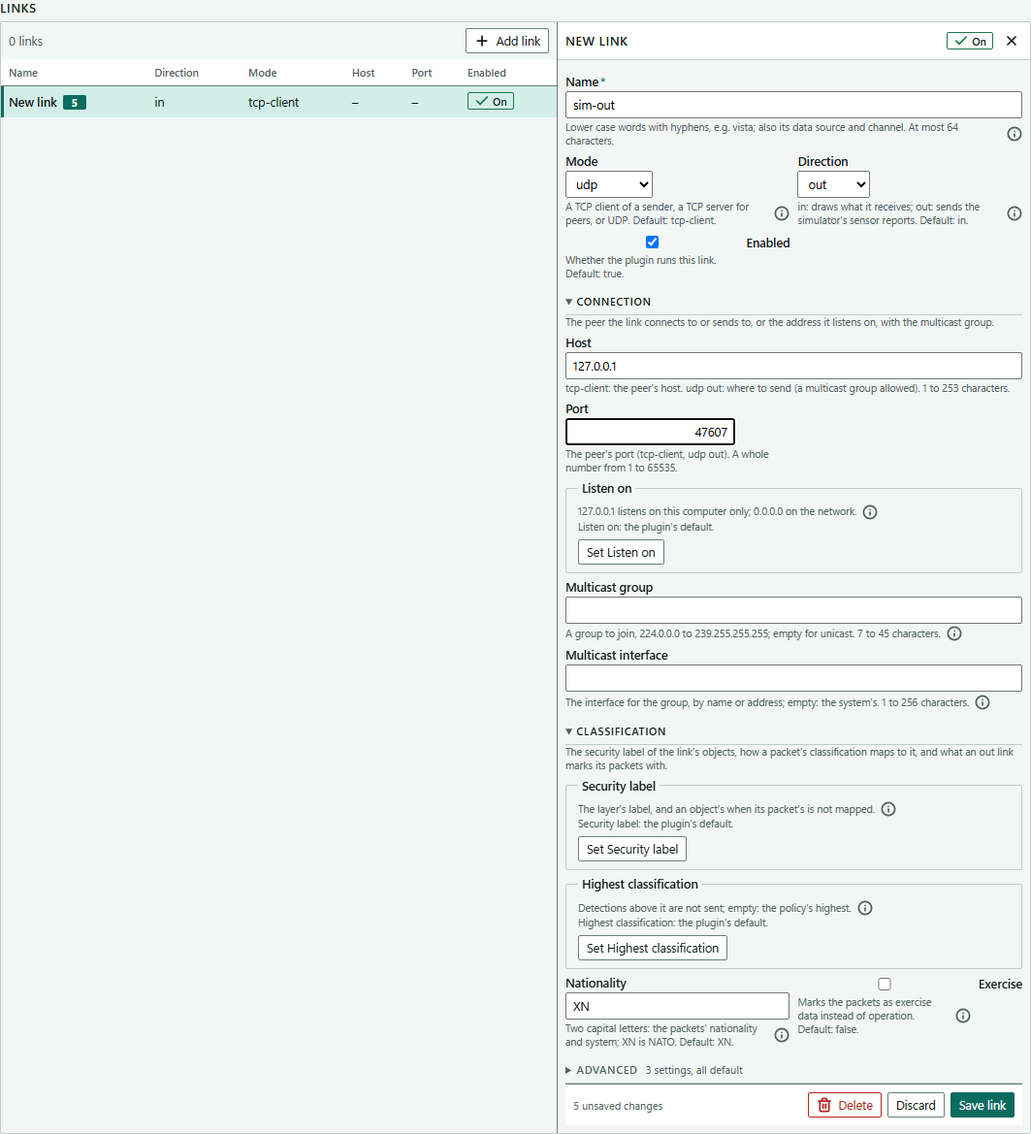
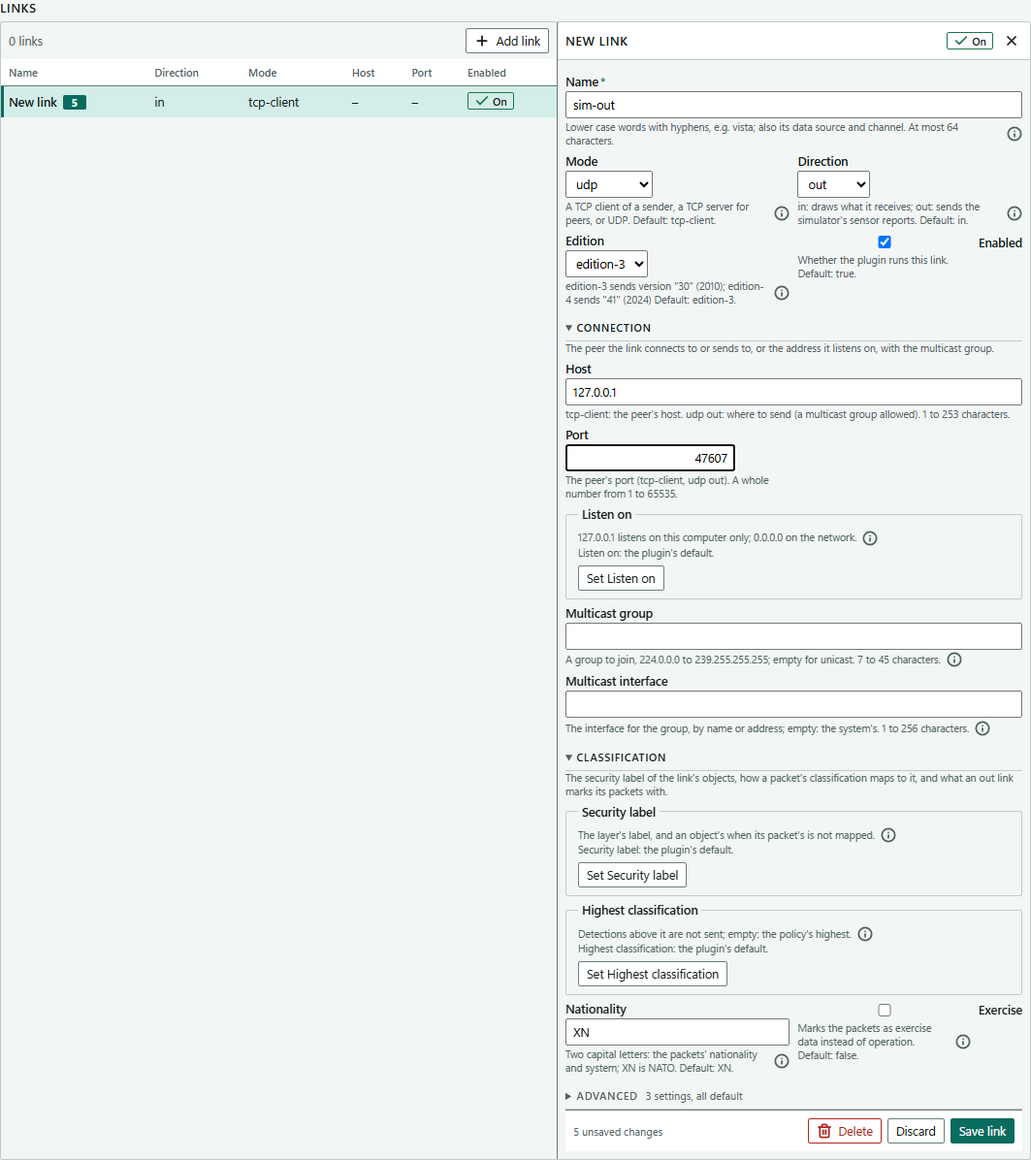
Documents: STANAG 4607 Edition 3 by default, after M9.1
The user manual, gmti's brief, the SDK's part D and the GMTI design
note describe M9.1: an out link's Edition setting (Edition 3 by
default, or Edition 4) and job definitions at least every 20 s.

diff --git a/docs/plugins/briefs/gmti.md b/docs/plugins/briefs/gmti.md
@@ -29,6 +29,7 @@
 - **Updated 2026-11-14 for M8 (owner, 2026-11-13, UV A): section 3's dwell area has no name; criterion 27 checks it.**
 - **Updated 2026-11-14 for M8 (T-195 changes; owner VD C: fewer dwell areas; the owner's answers of 2026-11-14 in the PDA's session: one area per revisit A, fading from its newest dwell A, created then updated A, a 10 s span A; PCA-gmti's point on VISTA's `D2`): section 3's dwell area, its key and its state, the per-platform row, the state and writes, the data type's expiry, criteria 27 and 39; simulator function 43's note.** A revisit's dwells share one area, the band that covers them, so a platform has about 25 times fewer areas at AFSERS's rate (the map view's cost is per vertex, 180 to 250 per area). Criteria 38, 40 and 41 do not change.
 - **Updated 2026-11-16 for M8 RC2 (the owner's answer YI A after M8 RC1: one dwell area per dwell again, in place of one per revisit, VD C; the dwell areas' fade full until 5 s and gone at 15 s): section 2's key, section 3's dwell area, its key and its state, the data type's expiry, the state and writes, section 5's `dwellAreaFade` default, criteria 27 and 39; the simulator brief's function 43 note.** One area per revisit made a Systematic pass's dwells one band that grew from where the pass began, so View drew rings and wide wedges that did not match Simulation's plan (the owner's M8 RC1 report). As built by PCA-gmti on `pca-gmti/m8-dwell-areas` `b470d7cc` (README, FORMAT-RULES G4, G7 and G12). At AFSERS's rate about 150 areas per platform at a time (1 000 at M8's first 100 s). The coverage, the detections and criteria 38, 40 and 41 do not change.
+- **Updated 2026-11-20 for M9.1 (owner, 2026-11-20, in PCA-gmti's session; board M9-R30): section 2's versions, section 3's "Out" (`P1`, `P10`, the job definition at least every 20 s), section 5's `edition`, criteria 22 and 42.** An out link writes the edition its new setting `edition` names: `edition-3` (`P1` "30", STANAG 4607 Edition 3) by default, also for links set up before M9.1, or `edition-4` (`P1` "41", AEDP-4607 Edition A Version 1), where the mission's and the job definition's own packets have `P10` 0. The job definition goes at least every 20 s, not 30 s, which receivers flagged. "In" reads every version as before and logs those other than "30" and "41". As built in M9.1 (`plugins/gmti/README.md`, `FORMAT-RULES.md` G13 and G18).
 
 ## 1. Purpose
 
@@ -42,7 +43,7 @@ Task T-141 builds it, by PCA-gmti.
 ## 2. Specification
 
 - **STANAG 4607 Edition 4:** AEDP-4607 Edition A, Version 1 (the format), with AEDP-4607.1 Edition A, Version 1 (the implementation guide), ADR-0048 point 1. Public NSDD documents in a local folder; read there, never copied. The reference's section 1 is the map.
-- **Versions** (`P1`): "41" is written; **every version is read by the existence mask alone** (reference 3.6, pitfalls 17 and 24): every recording the owner has says "21" or "30" (reference 5.3). Another version is logged once per link, not refused.
+- **Versions** (`P1`): **the edition by the out link's setting `edition`, Edition 3 ("30") by default** (M9.1; owner, 2026-11-20), or Edition 4 ("41"); **every version is read by the existence mask alone** (reference 3.6, pitfalls 17 and 24): every recording the owner has says "21" or "30" (reference 5.3). A version other than "30" and "41" is logged once per link, not refused.
 - **Segments read:** mission (1), dwell (2), job definition (5), platform location (13). **Skipped and counted by type:** every other type, HRR, free text, test and status, processing history, job request and acknowledge, 101, 102 and the extension types among them (reference 3.6, 4.1). A free text is logged at debug.
 - **Segments written:** packet header, mission, job definition and dwell (reference 4.3). No HRR, free text, status, history or platform location.
 
@@ -105,8 +106,8 @@ Task T-141 builds it, by PCA-gmti.
 
 **Out** (reference 4.3 gives every field; decided here):
 
-- Each `ChannelItem.SensorReport` becomes one packet: packet header (`P1` "41"; `P3` and `P5` the link's `nationality`, default `XN`; `P4` from the highest of the link's `label` and the item's detections' labels, mapped back to 1 to 5, so that **an empty dwell gets the link's label** (the ACA's R7); `P7` 1, or 129 when the link's `exercise` is on; `P8` from the sensor's name (below); `P9` from the sensor's mission (below); `P10` one job id per sensor, from 1), a mission segment, the job definition before the sensor's first dwell and at least every 30 s, and the dwell segment.
-- **One segment per packet** (T-159; owner, MV A, 2026-11-09): the link setting `oneSegmentPerPacket` (section 5), **on by default** (owner, MY, 2026-11-09). **On,** each segment of the packet above goes in a packet of its own, in the same order: the mission, the job definition when it is due, then each dwell segment (more than one when the reports are split, below). Each packet has its own packet header, with `P1` and `P3` to `P10` as the one packet's would be, and `P2` its own size. Why: the owner's dissector reads only a packet's first segment; the guide's minimum receiver needs no more than one segment per packet (reference 3.7, Guide G.7.3). Over UDP each packet is one datagram. "In" reads both forms the same (reference 3.7). **Off,** one packet per sensor report, as above. The setting takes effect from the next report, without a reconnect.
+- Each `ChannelItem.SensorReport` becomes one packet: packet header (`P1` by the link's `edition`: "30" for `edition-3`, the default, or "41" for `edition-4` (M9.1); `P3` and `P5` the link's `nationality`, default `XN`; `P4` from the highest of the link's `label` and the item's detections' labels, mapped back to 1 to 5, so that **an empty dwell gets the link's label** (the ACA's R7); `P7` 1, or 129 when the link's `exercise` is on; `P8` from the sensor's name (below); `P9` from the sensor's mission (below); `P10` one job id per sensor, from 1, and in Edition 4 0 in a packet without a dwell), a mission segment, the job definition before the sensor's first dwell and at least every 20 s (M9.1; it was 30 s, the limit 4607 receivers allow, and receivers flagged it), and the dwell segment.
+- **One segment per packet** (T-159; owner, MV A, 2026-11-09): the link setting `oneSegmentPerPacket` (section 5), **on by default** (owner, MY, 2026-11-09). **On,** each segment of the packet above goes in a packet of its own, in the same order: the mission, the job definition when it is due, then each dwell segment (more than one when the reports are split, below). Each packet has its own packet header, with `P1` and `P3` to `P10` as the one packet's would be, and `P2` its own size; in Edition 4 the mission's and the job definition's own packets have `P10` 0, as Edition 4 asks of a packet without a dwell (Edition 3 keeps the job id in every packet; M9.1). Why: the owner's dissector reads only a packet's first segment; the guide's minimum receiver needs no more than one segment per packet (reference 3.7, Guide G.7.3). Over UDP each packet is one datagram. "In" reads both forms the same (reference 3.7). **Off,** one packet per sensor report, as above. The setting takes effect from the next report, without a reconnect.
 - **The area** (reference 4.2): **an `ArcBand` by its own shape, wherever its centre lies** (T-193, owner TB A; PCA-gmti `120c06f6`): `D24`/`D25` its middle, `D26` half its depth, `D27` half its angle (AEDP 3.4.27), while `D7`/`D8` stay the report's platform at the report's time (AEDP 3.4.7). Before T-193 only a band centred within 1 m of the platform went so, and the simulator centred a revisit's bands where the platform was when the revisit began, so a moving sensor's band went as an "other shape" and came back as a wide sector or a near-full ring. **Since T-193 the simulator centres each dwell on the platform where its report puts it** (PCA-simulator `0b91a88d`; the UDA's M8 note); `gmti` still sends a band centred elsewhere by its own shape, as any sender may. "In" draws a band from `D7`/`D8` (reference 4.1), so its middle, far edge and width stay and its point moves to the platform; **a `Circle` centred on the sensor as 4607 allows** (Annex C-1.12; CR-0035, owner, KM, 2026-11-07): `D24`/`D25` the point halfway out at bearing 0° from the sensor, `D26` half the radius in km, `D27` 180°. That is the whole disc, which "In" (above; reference 4.1) reads back as the same circle round the sensor: inner 0, outer the radius. Other shapes are sent as the reference approximates them, and cut the same way from their near edge.
   - **The area's depth** (owner, JS and KA, 2026-11-07, with CR-0035's KM; G12): `D26` holds at most 255.99 km, so a dwell area reaches at most **511.98 km beyond its near edge**. **The out channels declare it: `maxAreaDepth(511_980)`** (CR-0035), which the simulator compares with to warn (its function 30). The near edge is the area's distance from the sensor at its nearest point: an `ArcBand`'s inner radius, and 0 for a `Circle` round the sensor.
   - **A deeper area is cut** (JS): the simulator's reach is generic and not cut (its function 28), so `gmti` cuts. Only the range is cut, the near edge stays (owner, KA, 2026-11-07, confirming PCA-gmti's Q5), and the bearings stay:
@@ -130,7 +131,7 @@ Task T-141 builds it, by PCA-gmti.
 - **Ground truth** is not taken: the channel's kinds are `SENSOR_REPORTS` only. **Relations are not sent** (ADR-0051 point 8).
 - **The job area, the sensor type and a revisit's dwells** (M6, T-168 and T-169; CR-0039 point 7, CR-0040; the simulator's functions 36 to 39):
   - **Ground radars only:** the out channels declare `sensorTypes` `[GROUND_RADAR]`, so the simulator offers them no generic sensor. A report whose `Sensor.type` is another type is not sent, counted `not a ground radar`. A report without a type, from a sender built before 1.5.0 or without a `Sensor`, is sent as in M5.
-  - **The job's bounding area** (`J6`–`J13`): from `Sensor.jobArea` when the report has one, its four corners **clockwise** as A to D (owner, PK A, 2026-11-10; AEDP-4607 3.7.6): A is the ring's first corner, and a counter-clockwise ring is reversed after A (the simulator's job area has exactly four, its function 39). **A job area that is not a convex area of four corners** (more or fewer corners, or a concave or crossed ring) is sent as the box round it, counted `not held: J6` once per sensor (owner, PK A); latitude first in the bytes, as the reference gives. Without one, the box round the dwell area, as in M5 (`plugins/gmti/README.md`, "Out"). The job definition goes before the sensor's first dwell, **again with the next dwell when the job area changes** (AEDP-4607 3.7: the actual area whenever it differs), and at least every 30 s, as before.
+  - **The job's bounding area** (`J6`–`J13`): from `Sensor.jobArea` when the report has one, its four corners **clockwise** as A to D (owner, PK A, 2026-11-10; AEDP-4607 3.7.6): A is the ring's first corner, and a counter-clockwise ring is reversed after A (the simulator's job area has exactly four, its function 39). **A job area that is not a convex area of four corners** (more or fewer corners, or a concave or crossed ring) is sent as the box round it, counted `not held: J6` once per sensor (owner, PK A); latitude first in the bytes, as the reference gives. Without one, the box round the dwell area, as in M5 (`plugins/gmti/README.md`, "Out"). The job definition goes before the sensor's first dwell, **again with the next dwell when the job area changes** (AEDP-4607 3.7: the actual area whenever it differs), and at least every 20 s (M9.1; was 30 s).
   - **A revisit's dwells** (CR-0040): with `SensorReport.Sequence`, `D2` is the revisit number modulo 65 536, `D3` the dwell number and `D4` its `lastOfRevisit`. Without one, as in M5: the link's own revisit count, `D3` 0 and `D4` set. The channel's inbox keeps the latest report per sensor and dwell number, so a revisit's dwells do not replace each other; `dwells dropped` still counts what a slow link loses.
 
 ## 4. Transport
@@ -162,6 +163,7 @@ The `links` setting, from `Link`'s schema in the template:
 | `links[].nationality` | `XN` | `out`: `P3` and `P5` |
 | `links[].exercise` | off | `out`: `P7` 129 instead of 1 |
 | `links[].maxReportsPerSegment` | 120 | `out`: 1 to 65 535 (A5) |
+| `links[].edition` | `edition-3` | `out`: the STANAG 4607 edition (M9.1; owner, 2026-11-20): `edition-3` writes `P1` "30" (Edition 3), also for links set up before M9.1; `edition-4` writes "41" (AEDP-4607 Edition A Version 1), with `P10` 0 in a packet without a dwell. A free field, beside `direction` |
 | `links[].oneSegmentPerPacket` | on | `out`: "One segment per packet": each segment in its own packet with its own header; off, one packet per sensor report (section 3, "Out"; T-159, owner MV A; on by default, MY) |
 
 **From M7, the plugin's own colours** (T-181, T-185; owner, QM A, QR A, 2026-11-11), top-level settings beside `links`, set by an admin and the same for every user and link:
@@ -188,7 +190,7 @@ The `links` setting, from `Link`'s schema in the template:
 
 - **The fields by mode and direction** (M6, T-160; SDK 1.5.0 part 4, CR-0039 point 8; the owner's Q45 A, 2026-11-10). The form shows only what a link of that mode and direction uses, so an admin cannot miss the listen port (the owner's RC1 setup: an `in` link without one received nothing):
   - **By mode** (`"x-emc2": { "visibleWhen": { "property": "mode", "in": [...] } }`): `host` and `port`, the peer, for `tcp-client` and `udp`; `listen` for `tcp-server` and `udp`; `multicastGroup` and `multicastInterface` for `udp`. A `udp` link shows both the peer and `listen`, since `visibleWhen` names one field (Q45 A).
-  - **By direction:** each field the table marks `in` or `out` is shown for that direction only (`visibleWhen` on `direction`, instead of M5's greyed `enabledWhen`): `targetLayer`, `platformSymbol`, `platformIdentity`, `maxReportsPerDwell`, `time`, `classification`, `classificationNames` and `coverage` for `in`; `highestClassification`, `nationality`, `exercise`, `maxReportsPerSegment` and `oneSegmentPerPacket` for `out`. `label` and `name`, `mode`, `direction`, `idleSeconds` and `enabled` show for both.
+  - **By direction:** each field the table marks `in` or `out` is shown for that direction only (`visibleWhen` on `direction`, instead of M5's greyed `enabledWhen`): `targetLayer`, `platformSymbol`, `platformIdentity`, `maxReportsPerDwell`, `time`, `classification`, `classificationNames` and `coverage` for `in`; `highestClassification`, `nationality`, `exercise`, `maxReportsPerSegment`, `oneSegmentPerPacket` and `edition` (M9.1) for `out`. `label` and `name`, `mode`, `direction`, `idleSeconds` and `enabled` show for both.
   - **Required where used**, by the schema's own `if`/`then` in the item (standard JSON Schema; the model's example `manifest-settings-visible-when.json`): `listen` for `tcp-server` and for a `udp` `in` link; `host` and `port` for `tcp-client` (also when `mode` is absent, its default) and for a `udp` `out` link. ECore refuses such a link when saved, and the form shows the error at the field (the CDA's part 4 line). The Java `Link` keeps its own checks.
   - **A hidden field keeps its value** and is still validated: switching a link from `tcp-client` to `tcp-server` and back keeps its `host`. The plugin ignores the fields its mode and direction do not use, as before.
 - **The manifest:** `connections` with the kinds `tcp-client`, `tcp-server`, `udp` and `multicast`, `direction` `both`, `"settings": "/links"`, and the reason; `internet` with `hosts: []`, since an admin may point a link at a sensor on another network; the data types, the field set and the relation kind of section 3.
@@ -246,7 +248,7 @@ The reference's test checklist (6.2) is part of these criteria: each line there 
 19. **Out, the area's depth** (JS, KA; CR-0035, KM): the out channels list `maxAreaDepth` 511 980 m. A sensor report with a `Circle` of 400 km round the sensor (latitude ≠ longitude) and detections at 100 km and 300 km sends `D24`/`D25` 200 km north of the sensor, `D26` 200 km and `D27` 180°, which "In" reads back as a `Circle` of 400 km round the sensor; it sends both detections and counts nothing. A `Circle` of 600 km sends `D26` 255.99 km with its centre 255.99 km north, the detection at 500 km and not the one at 550 km, counting `not held: D26` and one `beyond reach`. An `ArcBand` from 20 to 400 km (half extent 190 km) is sent whole, with every detection; an `ArcBand` from 20 to 1 000 km is sent from 20 to 531.98 km (its centre 275.99 km from the sensor, its bearings unchanged), and a detection at 600 km is left out and counted (KA).
 20. **Out, the mission** (CR-0034): a sensor with the mission "ATO-2611-BRAVO" sends `M1` "ATO-2611-BRA" and `P9` 1044403554 (0x3E405562, the CRC-32 of its UTF-8 bytes; "123456789" gives the check value 0xCBF43926), counting one `mission cut`; "ATO-2611-BRAVE" gives the same `M1` and `P9` 3734355068; "Övning Norr" sends "?vning Norr " and no `mission cut`; the same mission after a restart of the link keeps its `P9`; no mission sends spaces and the second of the link's start day.
 21. **In, the coverage** (T-158): a job definition with the corners A [15.10, 58.30], B [15.50, 58.30], C [15.50, 58.10] and D [15.10, 58.10] (longitude, latitude; clockwise) gives one `core.shape` `{gmti, <link>/<P8>/coverage}`, data type `gmti.platform`, a `Polygon` of those corners, longitude first. The same corners again within 30 s write nothing; after 30 s with a dwell, only its time changes; new corners replace it; four equal corners delete it, as `J5` 255 does; with `coverage` off none is written and a drawn one is deleted. A browser check: a simulated sensor through `gmti` out and back shows its sector inside the dashed box.
-22. **Out, one segment per packet** (T-159): a sensor's first report with 130 detections and `maxReportsPerSegment` 120. **By default** (`oneSegmentPerPacket` on, MY): four packets, the mission, the job definition and two dwell segments (120 and 10 reports), each with one segment and `P2` its own size, and `P1` and `P3` to `P10` equal to what the one packet's would be; over UDP four datagrams; a later report without a job definition due gives three packets, the mission and two dwells. With it off: one packet holding the mission, the job definition and the two dwell segments, `P2` its whole size. Read back by "In", both forms give the same platform, area, coverage and detections. Switching the setting takes effect from the next report, without a reconnect.
+22. **Out, one segment per packet** (T-159): a sensor's first report with 130 detections and `maxReportsPerSegment` 120. **By default** (`oneSegmentPerPacket` on, MY): four packets, the mission, the job definition and two dwell segments (120 and 10 reports), each with one segment and `P2` its own size, and `P1` and `P3` to `P10` equal to what the one packet's would be (in Edition 4 the mission's and the job definition's packets have `P10` 0, criterion 42); over UDP four datagrams; a later report without a job definition due gives three packets, the mission and two dwells. With it off: one packet holding the mission, the job definition and the two dwell segments, `P2` its whole size. Read back by "In", both forms give the same platform, area, coverage and detections. Switching the setting takes effect from the next report, without a reconnect.
 
 23. **The data types** (M6, T-165): the manifest's `gmti.detection` names `report` and both types have `manual` `false`, valid against the 1.5.0 schema; the test kit's context built from it lists `gmti.detection` with `fieldSets` `['gmti.report']` and both with `manual` false; a detection written through the fake store carries `gmti.report` once, and a platform none.
 24. **Out, the job area** (M6, T-168): a sensor report whose `Sensor.jobArea` has the corners [15.10, 58.30], [15.50, 58.30], [15.50, 58.10], [15.10, 58.10] (latitude ≠ longitude) sends them as `J6`–`J13`, A to D in that order, in the job definition before the first dwell; an `in` link draws that coverage. A changed job area sends a job definition with the next dwell; without one, the box round the dwell area as in M5.
@@ -268,6 +270,7 @@ The reference's test checklist (6.2) is part of these criteria: each line there 
 39. **The areas' steps** (T-192, T-195; from M8 RC2, owner YI A): with the test kit's context and the defaults, `gmti.dwell-area`'s `fade` is `{ fromSeconds: 5, stepPercent: 5, invisibleAtSeconds: 15 }` and its expiry 15 s, not faded, removed at once; in the browser a dwell area is drawn fully until 5 s after its dwell, at 95 % from 5.5 s, at 50 % from 10 s, and gone from 15 s, while later dwells each draw their own new area fully; the platform and the coverage keep `gmti.platform`'s expiry fade.
 40. **A changed fade** (T-192): with `detectionFade` set to `{ on: true, fromSeconds: 0, stepPercent: 50, invisibleAtSeconds: 20 }`, detections already on the map follow within 1 s without a reload (50 % from 10 s, gone from 20 s); with `on: false` they are drawn fully, with the data type's expiry fade.
 41. **The default colours** (M8, T-189): with no setting changed, a dwell area's `strokeColor` is `#7EF26A` and a coverage's `#BDCF3D`; the settings form shows both as `fixed`, and `identity` can still be chosen.
+42. **Out, the edition and the job's repeat** (M9.1; owner, 2026-11-20): a link without `edition` (as one set up before M9.1) and one with `edition-3` write `P1` "30", the job id in every packet; `edition-4` writes "41", and with one segment per packet the mission's and the job definition's packets have `P10` 0 and the dwells' the job id (with it off, every packet holds a dwell and keeps the job id). Read back by "In", both editions give the same platform, coverage and detections; "In" logs a version "21" once per link and nothing for "30" or "41". A sensor reporting for 60 s gets job definitions at most 20 s apart.
 
 
 ## 9. Out of scope

diff --git a/docs/architecture/gmti-4607.md b/docs/architecture/gmti-4607.md
@@ -44,7 +44,7 @@ Longitude in this format is **0 to 360° east**. For emc2's −180..180 (ADR-000
 
 | Id | M/C/O | Field | Type | Bytes | Meaning |
 |---|---|---|---|---|---|
-| P1 | M | Version id | A | 2 | "mn": edition as a number and version. **"41" is Edition A Version 1**; "30" was STANAG 4607 Edition 3, "20" Edition 2 (AEDP 3.1.1; Guide F, question 16) |
+| P1 | M | Version id | A | 2 | "mn": edition as a number and version. **"41" is Edition A Version 1**; "30" was STANAG 4607 Edition 3, "20" Edition 2 (AEDP 3.1.1; Guide F, question 16). emcc writes "30" by default, or "41", as each out link sets it (section 4.3) |
 | P2 | M | Packet size | I32 | 4 | bytes in the whole packet, this header included; at least 32 |
 | P3 | M | Nationality | A | 2 | digraph of the platform's nation; **"XN" for NATO** (AEDP 3.1.3) |
 | P4 | M | Security classification | E8 | 1 | 1 top secret … 5 unclassified (Table 3-2; section 2.1 below). There is no "none" value |
@@ -390,7 +390,7 @@ Three layers, from coarse to fine: the job definition's **nominal** values (`J16
 - **Unknown enumeration value:** keep the number, show "unknown (n)". Enumerations grow between editions.
 - **Set mask bits for reserved fields** (bytes 1 and 0 of `D1`): no bytes follow for them; ignore the bits.
 - **A malformed packet** (sizes that do not add up, a segment past the packet's end, a mask that cannot be true): drop the whole packet, count it, keep the link up (Guide G.9.18). On a TCP stream, resynchronising after a bad size is guesswork; the practical rule is to close and reopen the connection, which the connection task's retry does (ADR-0036).
-- **Older version ids** ("20", "21", "30"): the headers and the defined segments kept their layout; the differences are added enumeration values and `D32.18`. Parse them as Edition A; log the version. The owner's recordings are all "21" or "30" (section 5.3).
+- **Older version ids** ("20", "21", "30"): the headers and the defined segments kept their layout; the differences are added enumeration values and `D32.18`. Parse them as Edition A; log a version other than "30" and "41" (section 4.1). The owner's recordings are all "21" or "30" (section 5.3).
 - **Conditional rules not honoured.** Real senders set report error fields (`D32.12`–`D32.15`) without the dwell's `D12`–`D14`, or a velocity error without the velocity (section 5.3). The mask is the truth: read what it says is there, and treat the standard's conditions as advice for sending, not as checks when receiving.
 
 ### 3.7 What is mandatory for a minimal sender and receiver
@@ -409,7 +409,7 @@ An in link (TCP client, TCP server or UDP; ADR-0048 point 2, ADR-0036) parses pa
 
 **Per packet**
 
-- `P1`: log; accept "41", "30", "20".
+- `P1`: every version is read by the existence mask (section 3.6); a version other than "30" and "41" is logged once per link. The name of class `D32.10` 143 follows the packet's edition: the tagging device in Edition 3 and older, reserved in Edition A (M9.1).
 - `P4`, `P5`, `P6`: the packet's label (ADR-0020). `P4` 1–5 becomes the label's classification in the link's policy (the admin maps the five values to the policy's names; the default policy is NATO's and `P5` "XN" matches it); the link's default label applies when the packet's classification cannot be mapped. `P6` is kept as a number in the extension; mapping code words to label categories is after M5. The brief says how a packet whose classification is above the link's layer is handled, as the output rule in ADR-0037 point 8 does for sending.
 - `P7`: the APP-6 context of the objects the packet produces: 0 → reality, 1 and 2 → simulation, 128–130 → exercise.
 - `P8`, `P9`, `P10`: the **platform key** is `P8` (per link); the **job key** is `(P8, P10)`. The dwell area shape is **one per platform**, as ADR-0048 says, with the job id as a field on it: one recording (section 5.3) starts a new job id with nearly every dwell, so a shape per job would churn, and the AFSERS streams run one job per platform anyway. Interleaved jobs on one platform then share the shape, which flickers between two areas; a per-job option is for later if a real stream needs it.
@@ -447,9 +447,9 @@ An in link (TCP client, TCP server or UDP; ADR-0048 point 2, ADR-0036) parses pa
 
 Per **sensor report** the link sends one packet:
 
-- **Packet header:** `P1` "41"; `P3` the link's nationality setting (default "XN"); `P4` from the highest label among the item's detections and the sensor, mapped back to 1–5 (ADR-0037 point 8 for the limit); `P5` the link's scheme (default "XN"); `P6` 0; `P7` 1 (operation, simulated) or 129 when the sensor's scenario is an exercise, a link setting; `P8` the sensor's name, 10 BCS characters, padded, unique per sensor on the link; `P9` a number derived from the sensor's mission text when it has one (CR-0034: the same mission keeps its id across restarts and links; the `gmti` brief names the function), else a number fixed when the link starts; `P10` the job id, one per sensor (a counter from 1).
+- **Packet header:** `P1` by the link's setting `edition` (M9.1; owner, 2026-11-20): `edition-3` writes "30" and is the default, also for links set up before M9.1, because the receivers in use expect Edition 3; `edition-4` writes "41". The two editions lay out every field alike, and what `gmti` writes means the same in both, except `P10` below (`plugins/gmti/FORMAT-RULES.md`, G18); `P3` the link's nationality setting (default "XN"); `P4` from the highest label among the item's detections and the sensor, mapped back to 1–5 (ADR-0037 point 8 for the limit); `P5` the link's scheme (default "XN"); `P6` 0; `P7` 1 (operation, simulated) or 129 when the sensor's scenario is an exercise, a link setting; `P8` the sensor's name, 10 BCS characters, padded, unique per sensor on the link; `P9` a number derived from the sensor's mission text when it has one (CR-0034: the same mission keeps its id across restarts and links; the `gmti` brief names the function), else a number fixed when the link starts; `P10` the job id, one per sensor (a counter from 1); with `edition-4`, 0 in the packets of the mission and the job definition when they are sent apart from the dwells (AEDP 3.1.10; Edition 3 allows the job id there).
 - **Mission segment** in every packet (44 bytes, cheap, and the guide's preference): `M1` the sensor's mission (CR-0034: a simulator setting of 1 to 64 characters, cut to 12 and counted, characters outside BCS replaced as for `P8`; all spaces when there is none), `M2` spaces, `M3` 255 or the sensor's platform type setting, `M4` "emcc" and the version, `M5`–`M7` the **link's reference day**, fixed when the link starts; a link that runs past midnight keeps the day and lets `D6` pass 86 400 000, as the format allows.
-- **Job definition** at least every 30 s per sensor and before the sensor's first dwell: `J1` the job id; `J2` 255 or a setting; `J3` "SIM"; `J4` 0; `J5` 1 (255 when the sensor is removed); `J6`–`J13` the sensor's bounding area, clockwise, from its settings (the area it is set to watch; for a moving sector, the box around the current area); `J14` 1 (MTI); `J15` the revisit time in deciseconds; `J16`–`J20` no statement or the sensor's platform error settings; `J21` the range error in cm, `J22` the cross-range error as an angle (atan of the cross-range error over the range to the area's centre), `J23` the velocity error or no statement, `J24` the minimum detectable velocity in dm/s, `J25` the detection probability in percent, `J26` no statement; `J27` 0, `J28` 0 (the simulator's heights are the tracks' own).
+- **Job definition** before the sensor's first dwell and then at least every 20 s per sensor (M9.1, owner ADQ B: sent at 30 s with the next dwell, it reached receivers more than 30 s apart, over the standard's limit): `J1` the job id; `J2` 255 or a setting; `J3` "SIM"; `J4` 0; `J5` 1 (255 when the sensor is removed); `J6`–`J13` the sensor's bounding area, clockwise, from its settings (the area it is set to watch; for a moving sector, the box around the current area); `J14` 1 (MTI); `J15` the revisit time in deciseconds; `J16`–`J20` no statement or the sensor's platform error settings; `J21` the range error in cm, `J22` the cross-range error as an angle (atan of the cross-range error over the range to the area's centre), `J23` the velocity error or no statement, `J24` the minimum detectable velocity in dm/s, `J25` the detection probability in percent, `J26` no statement; `J27` 0, `J28` 0 (the simulator's heights are the tracks' own).
 - **Dwell segment:** `D2` the sensor's revisit counter (incremented per revisit, wrapping at 65 535), `D3` 0, `D4` 1 (one dwell per revisit, section 3.2); `D5` the detections, split into several segments of the same indices when they exceed the link's cap per segment (default 120, section 3.7); `D6` from the item's `time` and the reference day; `D7`–`D9` from the item's `platform` (longitude first in the SDK, latitude first in the bytes; altitude × 100); `D15`–`D17` when the simulator has the platform's track and speed; `D24`–`D27` from the item's `area` (section 4.2); `D31` the sensor's minimum detectable velocity. Reports: `D32.1` 0, 1, 2…; `D32.2`/`D32.3` full precision (no scale factors in M5); `D32.6` when the content has an altitude; `D32.7` the radial speed of the detected object relative to the sensor when the content has speed and course, else absent (and then no `D32.8`); `D32.10` the **simulated** class (128–255) from the content's symbol: ground vehicle → 130 wheeled or 129 tracked by the symbol's entity, rotary wing 131, fixed wing 132, surface vessel 134, dismount 137, else 255 unknown; `D32.11` 100; `D32.12`–`D32.15` the sensor's error settings (needs `D12`–`D14` in the body: the sensor's own position errors, 0 when it has none). Truth tags are not sent in M5.
 - **No HRR, free text, status, history or platform location.** A sensor whose platform moves between revisits sends nothing in between; its position in emc2 is the ground truth object.
 
@@ -486,7 +486,7 @@ HRR and range-Doppler data; job request and acknowledge (no tasking); processing
 - **pacing by the recorded time:** send each packet when its first dwell's `D6` is due relative to the previous one, with a speed factor and a "flat out" option; packets without dwells go with the next dwell;
 - **a loop option** that replays from the start when the file ends; the mission segment's reference day is then in the past twice over, which brings the time rule below;
 - **time handling:** the recording's reference day and dwell times are historical. Either the player rewrites `M5`–`M7` and every `D6`, `T4`, `L1` to "now" (a byte-level edit, since the fields are fixed-size; longitudes and the rest stay), or the emc2 link has a setting "time: as recorded | received", and the ITA's test uses "received" so that detections do not expire at once. The ACA recommends the link setting, and the rewrite as a later option of the player;
-- the recording's **version id** and classification: the player passes them through; the emc2 link accepts "21"/"30" (section 3.6) and maps the classification as section 4.1, with the setting below for the AFSERS files' `P4` = 2;
+- the recording's **version id** and classification: the player passes them through; the emc2 link reads every version (section 3.6) and maps the classification as section 4.1, with the setting below for the AFSERS files' `P4` = 2;
 - the ESA's sheet records the data's source, licence, which segments and fields it uses (a histogram of `S1` values and of the dwell mask bits), its reference day, duration, platform ids and the count of dwells and reports, so that the ITA can assert on them. Section 5.3 has the ACA's counts as a start.
 
 ### 5.3 The owner's recordings (not public, 2026-11-05)

diff --git a/documents/manual/decisions.md b/documents/manual/decisions.md
@@ -344,3 +344,5 @@ Also: six rows in the glossary and a build warning for the marks. `manual.json` 
 **Q93 (M9 is approved; the MCA's task of 2026-11-19, owner ADH; branch `uda/m9-final` from `main` `52933f14`).** **1.** `manual.json` says `"release": "M9"`, so that the manual describes emcc M9. **2.** The terrain and imagery data over Sundsvall are not part of the public release (owner ADH, 2026-11-19), so the manual no longer names the demo height data zip, the DTED cells, the Lantmäteriet orthophotos or Sundsvall as a place. **Changed:** 04-06 (the caption of the video picture), 05-20 (the section "The demo height data: Sundsvall" is now "Putting in your own height data": your own DTED files in `settings\terrain`, with the steps kept), 05-24 (the imagery set in the examples is `orthophotos-example`, source `Example orthophotos`; where photographs come from; the terrain folder is for your own DTED files), 06-00 (the Terrain row no longer says that the demo data has six cells), 07-02 (the UAV guide keeps its steps; the photographs and the height data are the reader's own, and the guide says that the coordinates `62.392 17.30` are those of the pictures' place and that the reader writes a place inside their own data), `src/README.md` and `shots.mjs` (comments). **Pictures taken again** on the M9 release itself (`0575b37d`, unpacked to a short path outside the repository, standalone) with an imagery set of the same four tiles, renamed `orthophotos-example` with the source `Example orthophotos` (the set's data is not in the repository): the four that named the set or the folder, `guide-uav-monitor-imagery`, `-refused` and `-wms` (the Guide UAV block with the ESA's GeoServer for the WMS step) and `monitor-fmv-camera` (the Camera block), which also showed a local path and now shows a short path inside the unpacked release. The other pictures of the two blocks were taken too but are not kept (they show no name); the map pictures of the area stay (the owner's decision allows it). **Check:** `grep -i "sundsvall\|lantm"` finds nothing in `documents/manual/html` and nothing in the manual's files but this file, which keeps the history of the earlier questions. **Not changed:** the example coordinates `62.4 N, 17.3 E` and `62.392 17.30` in 03-13, 05-20, 07-02 and the pictures, which are where the pictures were taken; the example cell path `e011/n59.dt2` is only an example of the file layout. **Left on this computer, outside the repository:** some local folders: an earlier unpack of a release (a protected path that the tool would not let me delete), a second unpack, the example imagery set and a throwaway worktree. None is in the repository.
 
 **Q94 (public scrub, round 2; the MCA's task of 2026-11-20, owner ADS C, board M9-R29; branch `uda/public-scrub-2` from `main` `0ddb8713`).** The manual's example folder is no longer a drive path. **1.0 Running** (chapter 1.2): the example output line of the start script reads `Settings: "<the release folder>\settings\emcc.properties"`. **8.0** (the first step of the installation check): the release is unpacked "in a folder of its own, with a short path, for example a folder directly under the root of a drive", with no name. Chapter 8.2 had no such path. **Pictures:** only `monitor-fmv-camera` showed a local path, the resolved folders of FMV's table of local folders (the release's folder on this computer, twice). The folder part is painted over with `<folder>` in the two rows (the picture file was edited, not taken again; the rest of the picture is unchanged). The other Monitor pictures and the guide's four Monitor rows show no folder. The `D:\` examples in 05-20 stay: they are only an example of a full path. **Check:** the MCA's `git grep` for the example drive folder and the local folder names finds nothing in `documents/manual`. The manual builds as before (74 chapters, 164 images, the same three `[CHECK]` marks).
+
+**Q95 (the GMTI chapter after M9.1; the MCA's task of 2026-11-20, owner, board M9-R30; branch `uda/gmti-edition3` from `main` `668b8cdc`).** M9.1 (tag m9.1, build `943992a5`, 2026-11-20) gives an out link in Settings, GMTI a field **Edition** and sends the job definition at least every 20 s. **05-14:** the table of the out link's settings has a row Edition (`edition-3`, version "30", the default also for links made before M9.1; `edition-4`, AEDP-4607 Edition A Version 1, "41"; choose edition-4 only when the receiver asks; the form shows the field only when the direction is out). A short paragraph says that the editions are laid out alike and differ in the version number and in the job number of a packet without a dwell (0 in Edition 4 with One segment per packet on), and that a receiving link reads both, so it needs no setting. The text on the job definition says 20 s (it said 30 s): before the first dwell and then with the next dwell once 20 s of dwell time have passed, so that the gap stays inside the standard's 30 s (it can be longer when the dwells are far apart; the conformance review asked for this wording, since the 20 s is dwell time and not a timer, and the sentence "at most 30 seconds later" about a changed setting lost its number); Edition takes effect with the next report, as One segment per packet does. **03-17** says that an emcc that sends repeats the coverage about every 20 s (the standard's limit, 30 s, stays for senders in general). **Picture:** `settings-gmti` (the out link's form) taken again on the M9.1 release (build `943992a5`, standalone, a short path outside the repository); it now shows Edition. The Monitor picture of the two links needed no change. **Release:** `manual.json` says `M9.1` (the manual has no field for a date). **Source of the facts:** `plugins/gmti/plugin.json`, README and FORMAT-RULES (G7, G18). I did not measure the 20 s on the running release, and I did not send to a receiver of Edition 4. **Not changed:** the UAV and GMTI guides (their steps keep the default edition).

diff --git a/documents/manual/src/05-14-gmti.md b/documents/manual/src/05-14-gmti.md
@@ -43,6 +43,7 @@ Click **Save link** to start the link. The [Monitor](06-00-monitor.md) shows whe
 
 | Setting | What it does |
 |---|---|
+| Edition | The edition of STANAG 4607 that the packets follow. `edition-3`: STANAG 4607 Edition 3 (2010), packet version "30". `edition-4`: AEDP-4607 Edition A Version 1, which is STANAG 4607 Edition 4 (2024), packet version "41". Default: edition-3, also for a link that was set up before M9.1. **Choose edition-4 only when the receiver asks for it.** The form shows the field only when the direction is out |
 | Security label | The lowest classification that a packet says, so that an empty dwell gets one |
 | Highest classification | Detections above this classification are not sent. It is only in force when you click **Set Highest classification**. Otherwise: the highest classification of the label's policy |
 | Nationality | The nationality and classification system of the packets, two capital letters. XN is NATO. Default: XN |
@@ -50,7 +51,9 @@ Click **Save link** to start the link. The [Monitor](06-00-monitor.md) shows whe
 | Most reports per segment | At most this many target reports in one dwell segment. A larger dwell goes as several segments. From 1 to 65 535. Default 120. In the group **Advanced** |
 | One segment per packet | Each part of a sensor report goes in a packet of its own: the mission, the job definition when it is due, and each dwell segment. Switch it off to send one packet for each report. Some tools, for example a packet dissector, read only the first part of a packet and so need it on. Over UDP each packet is one datagram. Default: on. In the group **Advanced** |
 
-A receiving system sees each restart of an out link as a new mission. A changed setting reaches the receiver with the next job definition, at most 30 seconds later. **One segment per packet** takes effect with the next report. The coverage box that a receiver draws for a simulated sensor is the sensor's job area when it has one (a job area that is not a convex four-cornered area goes as the box round it). Without a job area it is the box, with its sides north-south and east-west, round the sensor's dwell area. The out link sends it in the job definition.
+The two editions are laid out alike. What differs is the version number in each packet and one number for a packet without a dwell: the job number of the mission's packet and of the job definition's packet is 0 in Edition 4 (when **One segment per packet** is on), and in Edition 3 it is the job's own number. A link that receives reads both editions, and older packets too (version "21"), so it needs no setting.
+
+A receiving system sees each restart of an out link as a new mission. The job definition goes out before the first dwell, and then with the next dwell once 20 seconds of dwell time have passed, so that the gap between two of them stays inside the 30 seconds that the standard allows. When the dwells are far apart in time, the gap can be longer. A changed setting reaches the receiver with the next job definition. **One segment per packet** and **Edition** take effect with the next report. The coverage box that a receiver draws for a simulated sensor is the sensor's job area when it has one (a job area that is not a convex four-cornered area goes as the box round it). Without a job area it is the box, with its sides north-south and east-west, round the sensor's dwell area. The out link sends it in the job definition.
 
 ## Colours
 

diff --git a/docs/plugins/sdk-v1.md b/docs/plugins/sdk-v1.md
@@ -1099,7 +1099,7 @@ What the CDA's generated forms, Settings' lists and save bars need from a plugin
 - **The save surfaces follow from the types:** the page's properties other than arrays of objects are one surface with one bar; each item of an array of objects is its own, in its side form.
 - **Beyond the CR's text:** a colour setting counts as short (the simulator's page of numbers and colours side by side); `formSections` puts nested objects in no group after the declared groups and before the advanced ones; a list without `item` names its rows by the items' `title`, else the list's, and `itemWords` takes its noun from the same titles, else "item"; `noun` is a letter, then letters, spaces and hyphens; `settingsHintsProblem` also checks 1.3.0's and 1.5.0's `enabledWhen` and `visibleWhen` (a sibling, 1 to 32 values), and refuses `groups` deeper than one nested object (every plugin's schema in `plugins/` passes).
 - **For the CDA (T-203 parts C to E):** the forms by `formSections`, `fieldHint`, `fieldWidth` and the unit; lists by `isItemList`, `itemName`, `itemWords` and `itemColumns`, each item's own Save, Discard and Delete in its side form; the hidden `enabledWhen`; the Settings list's icons by `pluginIcon`. **ECore:** the schema already lets `icon` through; `PluginManifest.java` reads it and passes it on with the plugin's entry, as it does `category` (to build).
-- **For the PCAs (T-204):** the hints in their settings schemas and an `icon` in each manifest; the CDA's test cases first: `gmti`'s links (groups Connection, Picture, Classification and Advanced; name `name`, state `enabled`), `cot`'s links, `map-view-2d`'s projections (name `code`), `basemap-wms`'s servers and backgrounds, the simulator and `draw-shapes`. Suggested icons: `ais` Ship, `adsb` Plane, `cot` Radio, `gmti` Radar, `nvg` Network, the basemaps Globe, Map and Server, `terrain` Mountain, `map-view-2d` MapPin, `symbology` Hexagon, `coordinates` Crosshair, `draw-shapes` Shapes, `draw-symbols` Flag, `draw-tactical` Swords, `simulator` Play, `layer-panel` Layers, `object-list` List, `bookmarks` Bookmark.
+- **For the PCAs (T-204):** the hints in their settings schemas and an `icon` in each manifest; the CDA's test cases first: `gmti`'s links (groups Connection, Picture, Classification and Advanced; the free fields `name`, `mode`, `direction`, `enabled` and, from M9.1, `edition` (out only); name `name`, state `enabled`), `cot`'s links, `map-view-2d`'s projections (name `code`), `basemap-wms`'s servers and backgrounds, the simulator and `draw-shapes`. Suggested icons: `ais` Ship, `adsb` Plane, `cot` Radio, `gmti` Radar, `nvg` Network, the basemaps Globe, Map and Server, `terrain` Mountain, `map-view-2d` MapPin, `symbology` Hexagon, `coordinates` Crosshair, `draw-shapes` Shapes, `draw-symbols` Flag, `draw-tactical` Swords, `simulator` Play, `layer-panel` Layers, `object-list` List, `bookmarks` Bookmark.
 
 ### Part E: streams to the web part, ECore's conversions, a floating window (CR-0044; ADR-0057, CR-0045; for FMV, T-207)
 

diff --git a/documents/manual/src/03-17-gmti.md b/documents/manual/src/03-17-gmti.md
@@ -40,7 +40,7 @@ emcc decides which dwells belong to one revisit. A dwell starts a new one when i
 
 ### The coverage box
 
-The coverage shows where the sender says the radar works. The sender repeats it at least every 30 seconds, and it goes when the radar's job ends. It is the **job area** of the radar: the area that the radar is tasked to scan.
+The coverage shows where the sender says the radar works. The sender repeats it at least every 30 seconds (an emcc that sends does so about every 20 seconds), and it goes when the radar's job ends. It is the **job area** of the radar: the area that the radar is tasked to scan.
 
 ![The coverage box of a sensor and its dwell areas](images/gmti-coverage.png "The coverage box (dashed) and, inside it, a dwell area of a sensor that looks to the right of its platform (bearings 45° to 135°). Each revisit has its own area.")
 
